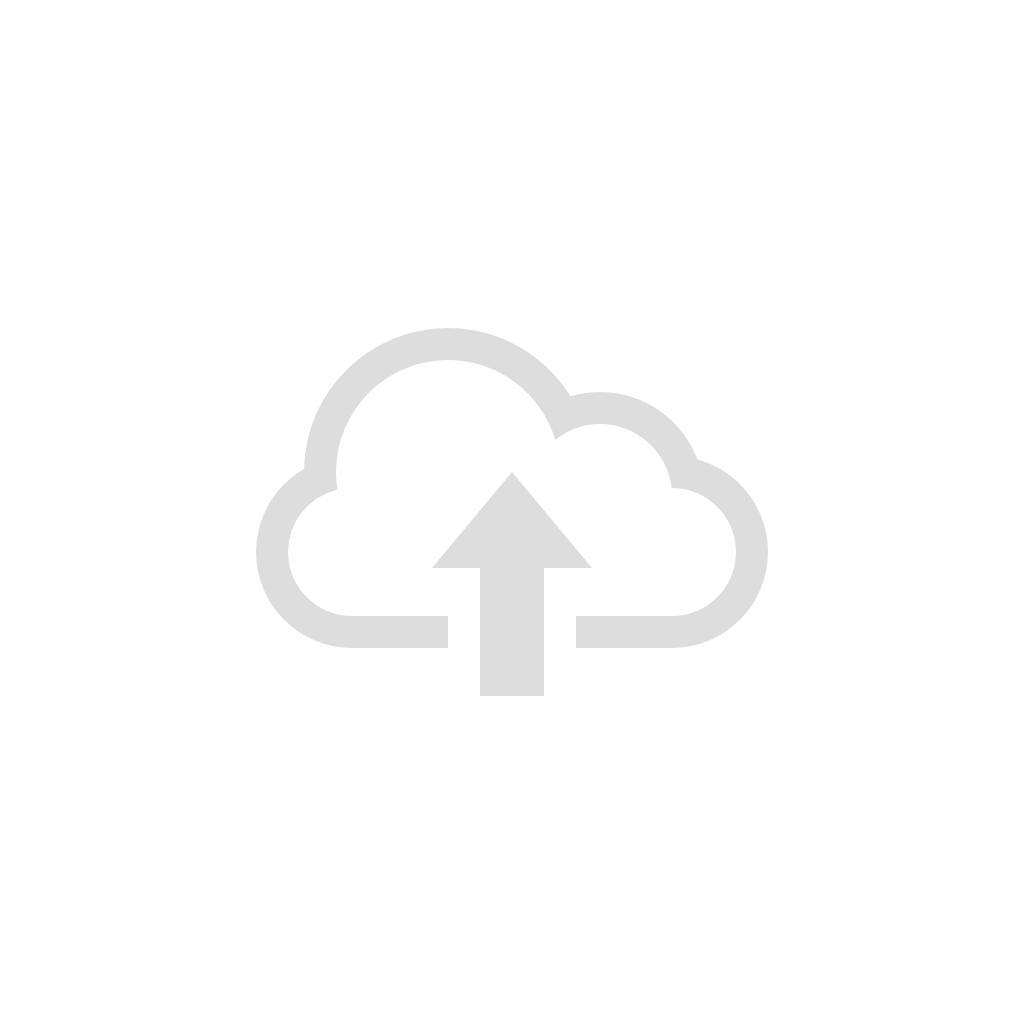
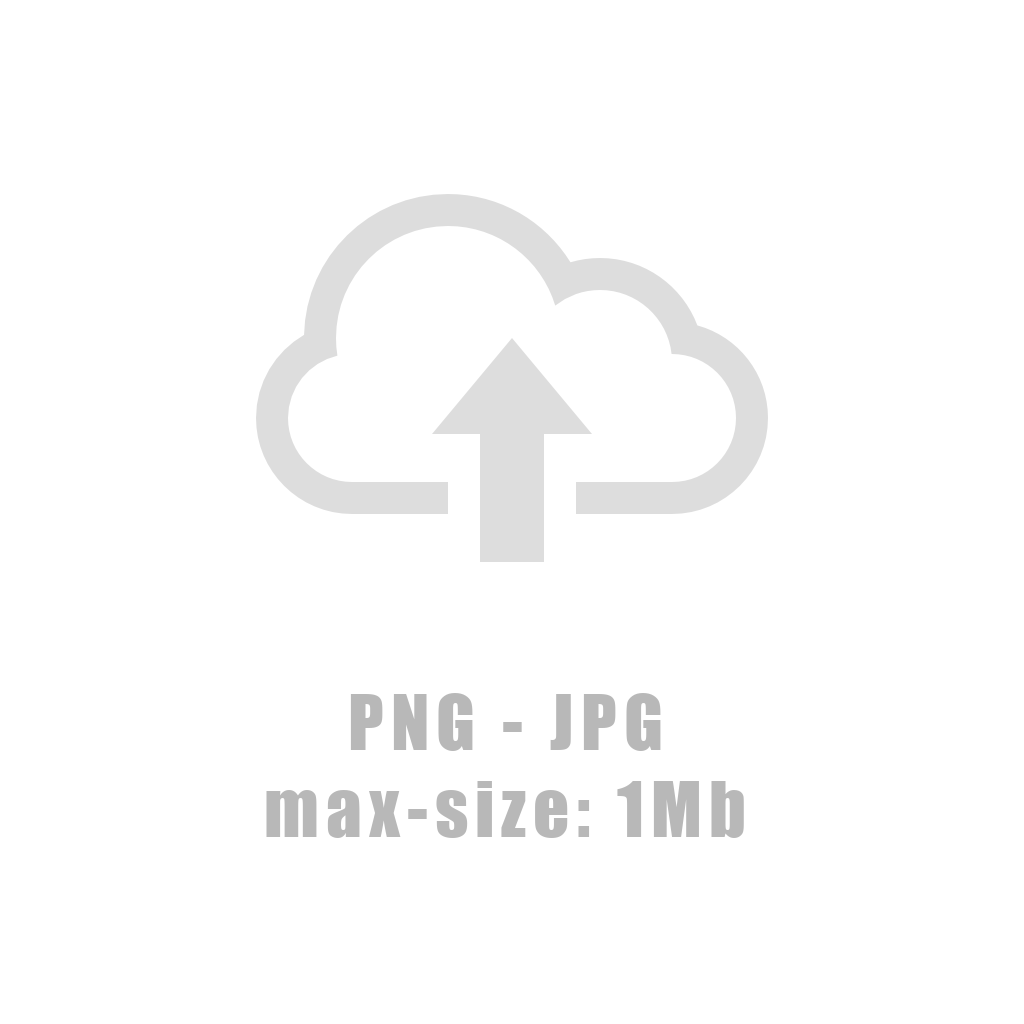
complete universal form 1397/4/6

Changed region(s): [[0.25, 0.1875, 0.75, 0.8438]]

diff --git a/public/js/multiple-file-uploader.js b/public/js/multiple-file-uploader.js
@@ -83,10 +83,6 @@ function addNewUploadFile(inputName , isRequire , uploadIcon , counter)
                 '<div class="fileUpload center-el" style="padding: 5px"> ' +
                     '<label for="up' + counter + '" class="multi-uploader-preview-label">' +
                     '<img src="' + uploadIcon + '" class="img-border"/>' +
-                    '<div style="margin-top: -60px;">'+
-                    '<p class="gray-color">png - jpg</p>'+
-                    '<p class="gray-color" style="margin-top: -10px;">Max Size : 1 MB</p>'+
-                    '</div>'+
                     '</label>' +
                     '<input type="file" accept="image/*" class="upload up" id="up' + counter + '" name="' + inputName +'" onchange="readURL(this, \'' + inputName + '\' , \'' + isRequire + '\' , \'' + uploadIcon + '\' , ' + (counter + 1) + ');" />' +
                 '</div>' +

diff --git a/public/js/app.js b/public/js/app.js
@@ -1,3 +1,9 @@
 Foundation.Abide.defaults.patterns['alpha_numeric_unicode'] = /^[\u0600-\u06FF-a-zA-Z0-9- ]*$/;
 Foundation.Abide.defaults.patterns['alpha_unicode'] = /^[\u0600-\u06FF-a-zA-Z- ]*$/;
 $(document).foundation();
+
+$('[data-loading-start]').click(function() {
+    $(this).addClass('hide');
+    $('[data-loading-end]').removeClass('hide');
+    $('[data-loading-end]').addClass('disabled');
+});

diff --git a/public/css/key.css b/public/css/key.css
@@ -146,7 +146,7 @@ th {
     color: #ffffff;
 }
 .gray-color{
-    color: #8a8a8a;
+    color: #D5D5D5;
 }
 .text-color{
     color: #8a8a8a;

diff --git a/resources/views/pages/section.blade.php b/resources/views/pages/section.blade.php
@@ -969,7 +969,7 @@
                                                                         <select name="{{ $questionForm->id . '_country_code' }}" style="border-radius: 0px;border-right: 0px;background-color: #EEEEEE"  {{ $questionForm->qfRequire == 0 ? '' : 'required' }}>
                                                                             <option data-countryCode="--" value="" Selected>-- country --</option>
                                                                             @foreach($countries as $country)
-                                                                                <option value="{{ $country->phonecode }}" {{ old($questionForm->id . '_country_code') == $country->phonecode ? 'selected' : '' }}>{{ '(+' . $country->phonecode . ') ' . $country->name }}</option>
+                                                                                <option value="{{ $country->phonecode }}" {{ old($questionForm->id . '_country_code') == $country->phonecode ? 'selected' : '' }}>{{ $country->name . ' (+' . $country->phonecode . ')' }}</option>
                                                                             @endforeach
                                                                         </select>
                                                                     </label>
@@ -1186,10 +1186,6 @@
                                                                                 <div class="fileUpload center-el" style="padding: 5px">
                                                                                     <label for="{{ 'up0'  }}" class="multi-uploader-preview-label">
                                                                                         <img src="{{ asset('pic/upload_img.png') }}" class="img-border"/>
-                                                                                        <div style="margin-top: -60px;">
-                                                                                            <p class="gray-color" >png - jpg</p>
-                                                                                            <p style="margin-top: -10px;" class="gray-color" >Max Size : 1 MB</p>
-                                                                                        </div>
                                                                                     </label>
                                                                                     <input type="file" accept="image/*" class="upload up" id="up0" name="{{ $questionForm->id . '[]' }}" onchange="readURL(this, '{{ $questionForm->id . '[]' }}' , '{{ $questionForm->qfRequire }}' , '{{ asset('pic/upload_img.png') }}' , 1);" {{ $questionForm->qfRequire != 0 ? 'required' : '' }}/>
                                                                                 </div><!-- btn-orange -->
@@ -1238,42 +1234,48 @@
                                     @if($form->fIsMultiStepForm && $formStepsCount > 1)
                                         @if($i == 1)
                                             @if($lan == 'fa')
-                                                <input type="button" name="next" class="next button primary button-width" value="بعدی" />
+                                                <button type="button" name="next" class="next button primary button-width">بعدی</button>
                                             @elseif($lan == 'en')
-                                                <input type="button" name="next" class="next button primary button-width" value="Next" />
+                                                <button type="button" name="next" class="next button primary button-width">Next</button>
                                             @elseif($lan == 'ar')
-                                                <input type="button" name="next" class="next button primary button-width" value="التالى" />
+                                                <button type="button" name="previous" class="previous button primary button-width">التالى</button>
                                             @endif
                                         @elseif($i < $formStepsCount)
                                             @if($lan == 'fa')
-                                                <input type="button" name="next" class="next button primary button-width" value="بعدی" />
-                                                <input type="button" name="previous" class="previous button primary button-width" value="قبلی" />
+                                                <button type="button" name="next" class="next button primary button-width">بعدی</button>
+                                                <button type="button" name="previous" class="previous button primary button-width">قبلی</button>
                                             @elseif($lan == 'en')
-                                                <input type="button" name="previous" class="previous button primary button-width" value="Previous" />
-                                                <input type="button" name="next" class="next button primary button-width" value="Next" />
+                                                <button type="button" name="previous" class="previous button primary button-width">Previous</button>
+                                                <button type="button" name="next" class="next button primary button-width">Next</button>
                                             @elseif($lan == 'ar')
-                                                <input type="button" name="next" class="next button primary button-width" value="التالى" />
-                                                <input type="button" name="previous" class="previous button primary button-width" value="سابق" />
+                                                <button type="button" name="previous" class="previous button primary button-width">التالى</button>
+                                                <button type="button" name="next" class="next button primary button-width">سابق</button>
                                             @endif
                                         @else
                                             @if($lan == 'fa')
-                                                <input type="button" name="previous" class="previous button primary button-width" value="قبلی" />
-                                                <input type="submit" name="submit" class="submit button primary button-width" value="ثبت" />
+                                                <button type="button" name="previous" class="previous button primary button-width" value="Previous">قبلی</button>
+                                                <button type="submit" class="primary button" data-loading-start>ثبت</button>
+                                                <button class="primary button hide" data-loading-end><i class='fa fa-spinner fa-spin'></i> در حال پردازش</button>
                                             @elseif($lan == 'en')
-                                                <input type="button" name="previous" class="previous button primary button-width" value="Previous" />
-                                                <input type="submit" name="submit" class="submit button primary button-width" value="Register" />
+                                                <button type="button" name="previous" class="previous button primary button-width" value="Previous">Previous</button>
+                                                <button type="submit" class="primary button" data-loading-start>register</button>
+                                                <button class="primary button hide" data-loading-end><i class='fa fa-spinner fa-spin'></i> Processing Order</button>
                                             @elseif($lan == 'ar')
-                                                <input type="button" name="previous" class="previous button primary button-width" value="التالى" />
-                                                <input type="submit" name="submit" class="submit button primary button-width" value="تسجيل" />
+                                                <button type="button" name="previous" class="previous button primary button-width" value="Previous">التالى</button>
+                                                <button type="submit" class="primary button" data-loading-start>تسجيل</button>
+                                                <button class="primary button hide" data-loading-end><i class='fa fa-spinner fa-spin'></i> معالجة الطلب</button>
                                             @endif
                                         @endif
                                     @else
                                         @if($lan == 'fa')
-                                            <input type="submit" name="submit" class="submit button primary button-width" value="ثبت" />
+                                            <button type="submit" class="primary button" data-loading-start>ثبت</button>
+                                            <button class="primary button hide" data-loading-end><i class='fa fa-spinner fa-spin'></i> در حال پردازش</button>
                                         @elseif($lan == 'en')
-                                            <input type="submit" name="submit" class="submit button primary button-width" value="ًRegister" />
+                                            <button type="submit" class="primary button" data-loading-start>register</button>
+                                            <button class="primary button hide" data-loading-end><i class='fa fa-spinner fa-spin'></i> Processing Order</button>
                                         @elseif($lan == 'ar')
-                                            <input type="submit" name="submit" class="submit button primary button-width" value="تسجيل" />
+                                            <button type="submit" class="primary button" data-loading-start>تسجيل</button>
+                                            <button class="primary button hide" data-loading-end><i class='fa fa-spinner fa-spin'></i> معالجة الطلب</button>
                                         @endif
                                     @endif
                                 </fieldset>

diff --git a/app/Http/Controllers/RegisterController.php b/app/Http/Controllers/RegisterController.php
@@ -14,6 +14,11 @@ class RegisterController extends Controller
 {
     public function registerForm(Request $request , $fId)
     {
+        for ($i=0;$i<2000000000;$i++)
+        {
+
+        }
+        dd($request);
         $requireCaptcha = QuestionForm::where('qfFrId' , '=' , $fId)->whereHas('question.fieldType' , function ($q){
             return $q->where('ftType' , '=' , 'captcha');
         })->where('qfState' , '<>' , 0)->get()->count(); //check captcha state is enable

diff --git a/resources/views/layouts/mainLayout.blade.php b/resources/views/layouts/mainLayout.blade.php
@@ -552,6 +552,11 @@
     $(document).ready(function() {
         $('#lightgallery').lightGallery();
     });
+    $(document).on("invalid.zf.abide", function(ev,elem) {
+        $('[data-loading-end]').addClass('hide');
+        $('[data-loading-end]').removeClass('disabled');
+        $('[data-loading-start]').removeClass('hide');
+    });
 </script>
 <!--LightBox gallery End-->
 
